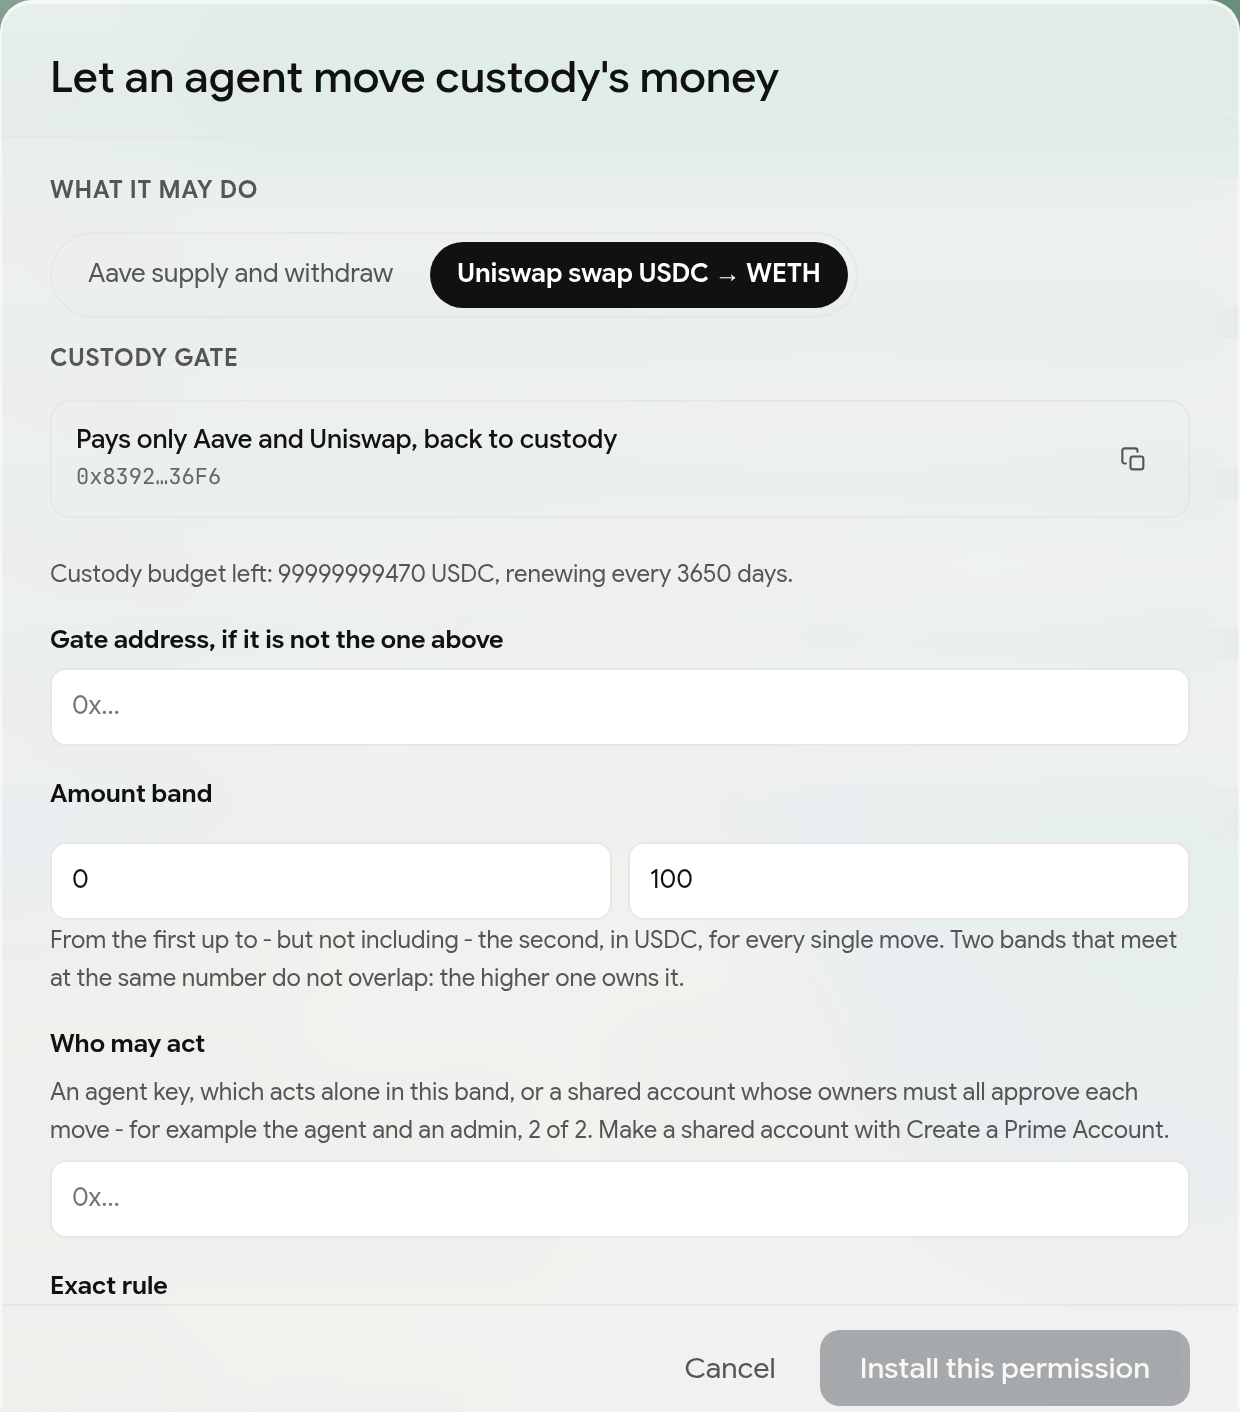
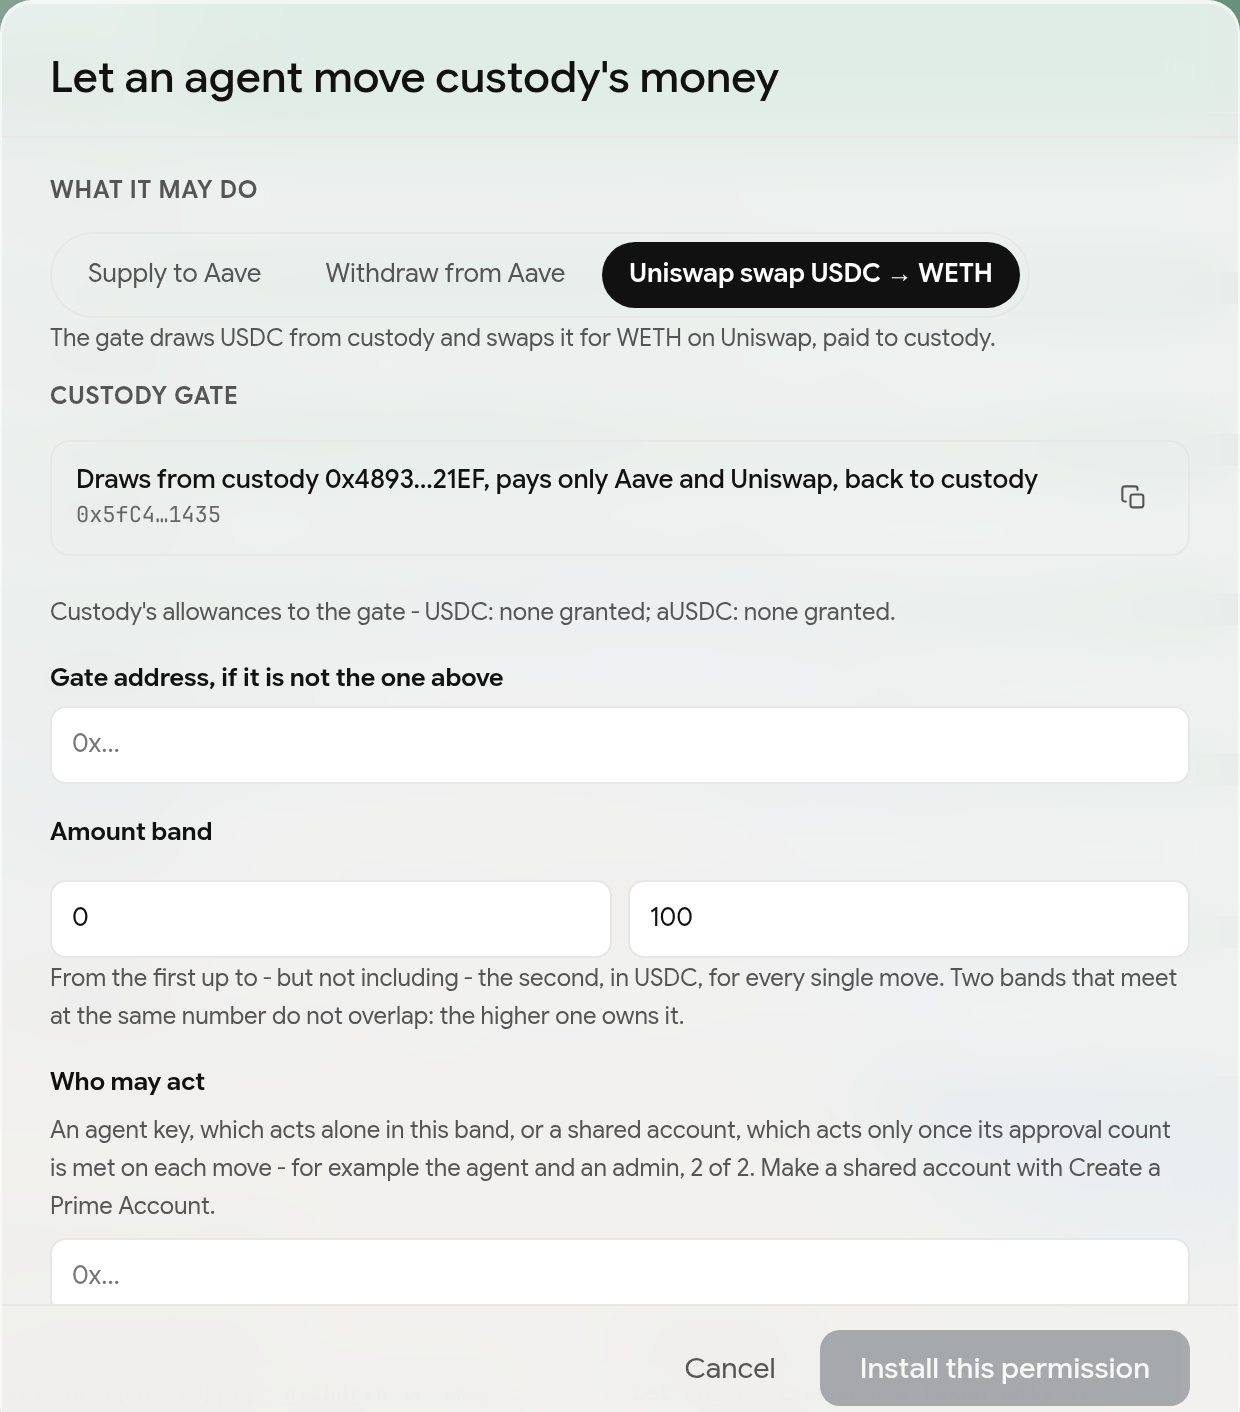
docs(prime): keep EVM custody funds at the vault, drawn through Permit2

diff --git a/docs/Prime/11.prime-on-evm.md b/docs/Prime/11.prime-on-evm.md
@@ -25,9 +25,9 @@ On EVM a Prime Account is a Safe smart account with an execution contract attach
 Zodiac Roles module that every agent move goes through, and that refuses anything
 outside the permission the move runs under.
 
-The account holds no funds and no allowance. Money moves only from your custody gate
-to a venue and back, and a lending position belongs to custody, not to the Prime
-Account.
+The account holds no funds and no allowance. Your funds stay at your custody address,
+and money moves only from there, through a custody gate, to a venue and back. A lending
+position belongs to custody, not to the Prime Account.
 
 ## Connect a wallet
 
@@ -39,11 +39,12 @@ on Base Sepolia; the app will not sign on any other network.
 ## Create a Prime Account
 
 Open **Accounts** and select **Create a Prime Account**. The wizard has the same steps
-as on Stellar: Account, Add signers, Approvals, and Review. Finishing it takes one
-transaction, paid in ETH by the wallet you connected, which becomes the first signer.
-That transaction creates the account and its execution contract together.
+as on Stellar: Account, Add signers, Approvals, and Review. Finishing it takes a
+signature and one transaction from the wallet you connected, which pays the fee in ETH
+and becomes the first signer. That transaction creates the account and its execution
+contract together.
 
-![The Accounts page with a Prime Account open, showing Manage allowance and Manage execution](/img/prime/evm-accounts.png)
+![The Accounts page with a Prime Account open, showing Manage allowance and Manage execution, and the Custody section below](/img/prime/evm-accounts.png)
 
 Open the account under **Accounts** to reach two dialogs:
 
@@ -76,37 +77,54 @@ are part of the Custody-funded action, so you get them through it.
 
 ## Set up a custody gate
 
-On EVM the custody gate is a Safe of its own. It holds the funds under three keys: a
-primary key, a break-glass key, and a recovery key. Any two of the three approve, and
-one key alone moves nothing. Prime is not an owner.
+On EVM your funds stay at your custody address, such as your MPC vault. They are not
+moved into the gate. The custody address sets up a custody gate instead: a small Safe
+that it alone owns, with rules that let one Prime Account ask it to draw from custody.
+The gate may draw only what custody allows, only into Aave v3 or Uniswap v3, and it
+pays everything back to custody. Prime is not an owner.
 
-With no custody gate yet, select **Custody-funded action** under **Policies** to open
-a four-step set-up:
+Who must approve a transaction from the custody address is set by the vault's own
+signing policy, such as the approval rules of your MPC custody provider. The chain does
+not enforce it. The agent's limits are enforced on chain.
 
-- **Custody:** the three keys. The wallet you connected is the primary key. It can
-  create the gate, but it cannot move anything out of it. It must also be an owner of
-  the Prime Account, because it installs the agent's side of the permission.
-- **Destinations:** the Prime Account the gate serves, and the agent who acts through
-  it. The venues are Aave v3 and Uniswap v3 (USDC to WETH), and everything comes back
-  to custody.
-- **Limit:** the **Limit** in USDC, how often it **Resets every** (1 to 3,650 days),
-  and the **Most per move**. The limit resets; it does not expire.
-- **Review:** everything above, shown before anything is signed.
+Connect the custody wallet and open **Accounts**. Under **Custody**, select **Set up a
+custody gate**. The set-up has four steps:
 
-**Create gate** sends one transaction, paid by the connected wallet, that creates the
-custody gate. The agent's first permission, for lending up to the most per move, also
-needs the Prime Account's side. If the Prime Account needs one approval, that side goes
-in the same transaction. If it needs more, that side waits in **Transactions** for its
-other signers. The gate holds test USDC only.
+- **Custody:** the connected wallet is the custody address, where the funds stay.
+- **Destinations:** the Prime Account the gate serves. Only that account may ask the
+  gate for anything. The venues are the Aave v3 pool, to supply and withdraw USDC, and
+  the Uniswap v3 router, to swap USDC for WETH. Everything they produce returns to the
+  custody address and nowhere else.
+- **Limit:** what the gate may draw, for USDC and for aUSDC (the Aave position, which
+  the gate draws to withdraw): an amount and an expiry in days. **Unlimited** means no
+  amount cap, and **Max** means no expiry.
+- **Review:** the gate, where it spends from, where it may release funds, who may ask
+  it, the limits, and what it will refuse.
 
-![The custody view: the custody Safe, its three keys at 2 of 3, its balance, and the mandate](/img/prime/evm-custody-view.png)
+The custody wallet then sends five transactions, the first after a signature, and the
+page reads each one back from the chain before it offers the next: **Create the gate**,
+**Approve USDC for Permit2**, **Allow the gate to draw USDC**, **Approve aUSDC for
+Permit2**, and **Allow the gate to draw aUSDC**. The allowances are held in Permit2, a standard allowance contract, and
+custody can lower or revoke them at any time.
+
+When all five are done, select **Open custody view**. It shows what the custody address
+holds (USDC, aUSDC in Aave, and WETH) and each allowance to the gate. Later, the custody
+wallet reaches the same view from **Accounts**, in any browser: under **Custody**, the
+app lists the gates it owns, each with **Open custody view**.
+
+![The custody view: the custody address, its gate and the Prime Account it serves, what custody holds, and both allowances revoked](/img/prime/evm-custody-view.png)
 
 ## Give an agent a permission
 
-Once the gate exists, **Custody-funded action** under **Policies** opens **Let an agent
-move custody's money**. Each permission covers one band:
+Once custody has set up its gate, a signer of the Prime Account selects
+**Custody-funded action** under **Policies** to open **Let an agent move custody's
+money**. The dialog finds the gate this account already draws on, or the one set up for
+it in this browser. Otherwise, paste the gate's address; the app checks on chain that
+the gate serves this Prime Account. The dialog shows which custody address the gate
+draws from and custody's allowances to it. Each permission covers one band:
 
-- **What it may do:** Aave supply and withdraw, or a Uniswap swap from USDC to WETH.
+- **What it may do:** **Supply to Aave**, **Withdraw from Aave**, or a Uniswap swap from
+  USDC to WETH.
 - **Amount band:** from the first amount up to, but not including, the second, for
   every single move.
 - **Who may act:** an agent key, which acts alone in this band, or a shared account,
@@ -117,16 +135,18 @@ A permission names one address, so a band that needs two people names a shared
 account, not two keys. Installing a permission is a change to the Prime Account, so on an
 account that needs more than one approval it waits for the other signers.
 
-![The Let an agent move custody's money dialog, with a swap band from 0 to 100 USDC](/img/prime/evm-band-dialog.png)
+![The Let an agent move custody's money dialog: the move, the custody gate it draws through and custody's allowances, the amount band, and who may act](/img/prime/evm-band-dialog.png)
 
 ## Read a permission
 
 Select a permission on **Policies** to read what it does, in plain words:
 
-- **Allows:** supplying custody's USDC to Aave v3 and withdrawing it back, or swapping
-  custody's USDC for WETH on Uniswap v3. Either way, what comes out goes to custody.
-- **Runs through:** the custody gate it draws from. Funds never pass through the
-  Prime Account.
+- **Allows:** drawing USDC from custody and supplying it to Aave v3, drawing custody's
+  aUSDC and redeeming it at Aave v3, or drawing USDC from custody and swapping it for
+  WETH on Uniswap v3. The position, the USDC or the WETH goes to custody.
+- **Runs through:** the custody gate it draws through. Funds never pass through the
+  Prime Account: they leave custody only inside the agent's move, through custody's own
+  allowance, and land back at custody.
 - **Amount:** the band every single move must fall in.
 - **Who may act:** each member, and whether it is a key that acts alone or a shared
   account whose owners approve each move.
@@ -145,7 +165,9 @@ account's execution contract.
 2. Edit **Call 1**: supply, withdraw, or swap, and the amount. For a swap, **Use live
    quote** sets the least you will accept to 1% under the current quote.
 3. Press **Execute**. The app checks the call against the permission first. A move over
-   the band's limit is refused here, with nothing signed or sent.
+   the band's limit is refused here, with nothing signed or sent. So is a move custody's
+   allowance no longer covers, because it was revoked, has expired, or is too small, and
+   the app says which.
 4. Read **Review before you sign**, then press **Run**. For a band held by a shared
    account the button is **Sign and queue**, and the other owners of the shared
    account approve it from **Queue** under **Transactions**, with that account
@@ -159,11 +181,12 @@ Account** button, with **Connect Safe smart account**.
 ## Transactions and co-signing
 
 **Transactions** has **Queue** and **History**, as on Stellar. Opening a queued item
-shows **It runs, in order**, which spells each call out in words - for example, custody
-approves the Aave pool for 150 USDC, then custody supplies 150 USDC to Aave. Select
-**Approve** to open a review, and **Confirm** to sign. Once every approval it needs is
-in, any owner can submit it, with **Execute Safe transaction** in that review or **Sign
-and submit** on the queued item.
+shows **It runs, in order**, which spells each call out in words - for example, the
+gate draws 150 USDC from custody through its Permit2 allowance, approves the Aave pool
+for 150 USDC, then supplies 150 USDC to Aave, with the position belonging to custody.
+Select **Approve** to open a review, and **Confirm** to sign. Once every approval it
+needs is in, any owner can submit it, with **Execute Safe transaction** in that review
+or **Sign and submit** on the queued item.
 
 ## Connected apps
 
@@ -175,19 +198,19 @@ to you and then declined.
 **Safe sign-in**, under **Apps**, has the owners sign one message and the Safe verify it.
 Nothing moves, and no session with an app is opened.
 
-## Get funds back without Prime
+## Stop the gate
 
-Each custody key reaches the custody view from **Accounts**, in any browser. Under
-**Custody**, the app lists the custody Safes your connected wallet holds a key to;
-select **Open custody view**.
+The custody address can stop the gate on its own, in one transaction. In the custody
+view, **Revoke both allowances** sets the USDC and aUSDC allowances to zero. After that
+the gate can draw nothing, whatever the agent asks: a move is refused at **Execute**,
+nothing is sent, and the app says custody's allowance to the gate is revoked. To start
+again, the custody view shows **Grant the allowances** with the amounts and expiry it
+will grant, and custody sends the grants again.
 
-The custody view has **Recover funds**, with two choices: **Move funds** out of custody,
-or **Withdraw the Aave position** back to it. Each needs two of the three custody keys,
-and never the Prime Account or the agent. The first key selects **Propose recovery**,
-checks the review, and signs with **Sign and propose recovery**. The recovery then
-waits for a second key: whoever holds one opens the custody view and completes it with
-**Approve and recover**. **Test one-key refusal** shows that one key on its own moves
-nothing.
+The gate should hold nothing between moves. If anything is left in it, the custody view
+shows it, and **Return leftovers** sends it back to custody. Only the custody address
+can do this. The Aave position is custody's own, so custody can also withdraw it at
+Aave directly, without Prime.
 
 ## Where EVM differs from Stellar
 
@@ -195,8 +218,8 @@ nothing.
 |---|---|---|
 | Network | Stellar | Base Sepolia testnet only |
 | The account | A Prime Account contract | A Safe with an execution contract |
-| Custody | Your custody wallet, and a gate you deploy that it grants limits to | A custody Safe held by three keys, 2 of 3, created together with the agent's first permission |
-| Budget | An allowance per asset, for a set number of days | One USDC limit that resets every set number of days |
+| Custody | Your custody wallet, and a gate you deploy that it grants limits to | Your custody address keeps the funds, and a gate Safe it alone owns draws on them through Permit2 |
+| Budget | An allowance per asset, for a set number of days | A Permit2 allowance for USDC and for aUSDC, each with an amount and an expiry, which custody alone grants and revokes |
 | Venues | Blend and Aquarius | Aave v3, and Uniswap v3 for USDC to WETH |
 | Where a lending position sits | With the Prime Account | With custody |
 | Policy templates | Several, and custom policies | The Custody-funded action only |
